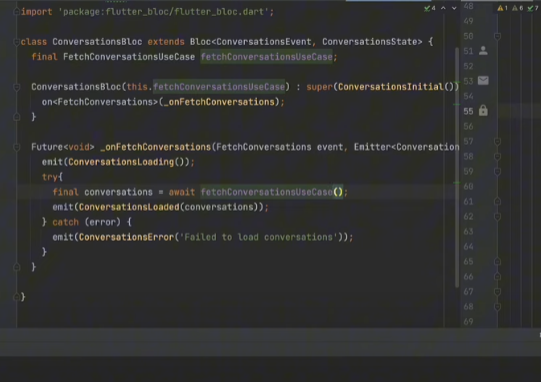
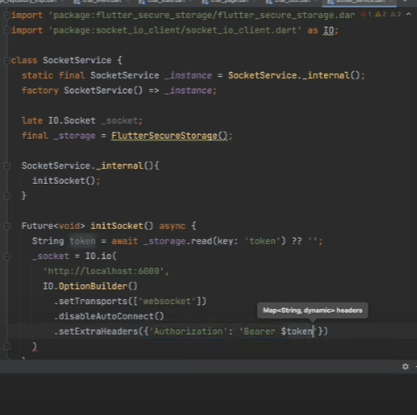
feat: integrate socket service and implement chat bloc

diff --git a/lib/chat_page.dart b/lib/chat_page.dart
@@ -1,63 +1,73 @@
 import 'package:flutter/material.dart';
+import 'package:flutter_bloc/flutter_bloc.dart';
+import 'package:flutter_secure_storage/flutter_secure_storage.dart';
 import 'package:messenger/core/theme.dart';
+import 'package:messenger/features/chat/presentation/bloc/chat_bloc.dart';
 
-class ChatPage extends StatelessWidget {
-  const ChatPage({super.key});
+class ChatPage extends StatefulWidget {
+  final String conversationId;
+  const ChatPage({super.key, required this.conversationId});
+
+  @override
+  State<ChatPage> createState() => _ChatPageState();
+}
+
+class _ChatPageState extends State<ChatPage> {
+  final TextEditingController _messageController = TextEditingController();
+  final _storage = FlutterSecureStorage();
+  String _userId = "";
+
+  @override
+  void initState() {
+    super.initState();
+    BlocProvider.of<ChatBloc>(context).add(LoadMessagesEvent(widget.conversationId));
+  }
 
   @override
   Widget build(BuildContext context) {
     return Scaffold(
-      appBar: AppBar(
-        title: Row(
-          children: [
-            CircleAvatar(
-              backgroundImage: NetworkImage('https://cdn-icons-png.flaticon.com/512/3177/3177440.png'),
-
-            ),
-            SizedBox(width: 10),
-            Text(
-              'Aditya',
-              style: Theme.of(context).textTheme.titleMedium,
-            ),
+        appBar: AppBar(
+          title: Row(
+            children: [
+              CircleAvatar(
+                backgroundImage: NetworkImage(
+                    'https://cdn-icons-png.flaticon.com/512/3177/3177440.png'),
+              ),
+              SizedBox(width: 10),
+              Text(
+                'Aditya',
+                style: Theme.of(context).textTheme.titleMedium,
+              ),
+            ],
+          ),
+          backgroundColor: Colors.transparent,
+          elevation: 0,
+          actions: [
+            IconButton(
+              icon: Icon(Icons.search),
+              onPressed: () {
+                // Handle search action
+              },
+              color: Colors.white,
+            )
           ],
         ),
-        backgroundColor: Colors.transparent,
-        elevation: 0,
-        actions: [
-          IconButton(
-            icon: Icon(Icons.search),
-            onPressed: () {
-              // Handle search action
-            },
-            color: Colors.white,
-          )
-        ],
-      ),
-
-      body: Column(
-        children: [
+        body: Column(children: [
           Expanded(
-            child:ListView(
-            padding: EdgeInsets.all(20),
-            children: [
-              _buildReceivedMessage( context,"hey my self aditya"),
-              _buildSentMessage( context," hi"),
-              _buildReceivedMessage( context,"how are you?"),
-              _buildSentMessage( context,"  i am fine"),
-              _buildReceivedMessage( context," ✌"),
-            ],
-           
+            child: ListView(
+              padding: EdgeInsets.all(20),
+              children: [
+                _buildReceivedMessage(context, "hey my self aditya"),
+                _buildSentMessage(context, " hi"),
+                _buildReceivedMessage(context, "how are you?"),
+                _buildSentMessage(context, "  i am fine"),
+                _buildReceivedMessage(context, " ✌"),
+              ],
             ),
-
           ),
-           _buildMessageInput(context),
-
-
-        ]
-      )
-    );    
+          _buildMessageInput(context),
+        ]));
   }
-
 
   Widget _buildReceivedMessage(BuildContext context, String message) {
     return Align(
@@ -77,7 +87,7 @@ class ChatPage extends StatelessWidget {
     );
   }
 
-    Widget _buildSentMessage(BuildContext context, String message) {
+  Widget _buildSentMessage(BuildContext context, String message) {
     return Align(
       alignment: Alignment.centerRight,
       child: Container(
@@ -103,7 +113,6 @@ class ChatPage extends StatelessWidget {
         color: DefaultColors.sentMessageInput,
         borderRadius: BorderRadius.circular(25),
       ),
-
       child: Row(
         children: [
           GestureDetector(
@@ -137,7 +146,6 @@ class ChatPage extends StatelessWidget {
             },
           ),
         ],
-
       ),
     );
   }

diff --git a/lib/features/chat/presentation/bloc/chat_bloc.dart b/lib/features/chat/presentation/bloc/chat_bloc.dart
@@ -1,0 +1,49 @@
+import 'package:flutter_bloc/flutter_bloc.dart';
+import 'package:flutter_secure_storage/flutter_secure_storage.dart';
+import 'package:messenger/core/socket_service.dart';
+import 'package:messenger/features/chat/domain/entities/message_entity.dart';
+import 'package:messenger/features/chat/domain/usecases/fetch_messages_use_case.dart';
+import 'package:messenger/features/chat/presentation/bloc/chat_event.dart';
+import 'package:messenger/features/chat/presentation/bloc/chat_state.dart';
+
+class ChatBloc extends Bloc<ChatEvent, ChatState> {
+  final FetchMessagesUseCase fetchMessagesUseCase;
+  final SocketService _socketService = SocketService();
+  final List<MessageEntity> _messages = [];
+  final _storage = FlutterSecureStorage();
+
+
+  ChatBloc({required this.fetchMessagesUseCase}) : super(ChatLoadingState()) {
+    on<LoadMessagesEvent>(_onLoadMessages);
+    on<SendMessageEvent>(_onSendMessages);
+    on<ReceiveMessageEvent>(_onReceiveMessages);
+  }
+
+  Future<void> _onLoadMessages(LoadMessagesEvent event, Emitter<ChatState> emit) async {
+    emit(ChatLoadingState());
+    try {
+      final messages = await fetchMessagesUseCase(event.conversationId);
+      _messages.clear();
+      _messages.addAll(messages);
+      emit(ChatLoadedState(List.from(_messages)));
+
+      _socketService.socket.emit('joinConversation',event.conversationId);
+      _socketService.socket.on('NewMessage', (data) {
+       
+      });
+
+
+
+    } catch (e) {
+      emit(ChatErrorState(e.toString()));
+    }
+  }
+
+  Future<void> _onSendMessages(SendMessageEvent event, Emitter<ChatState> emit) {
+    // Handle sending message logic here
+  }
+
+  Future<void> _onReceiveMessages(ReceiveMessageEvent event, Emitter<ChatState> emit) {
+    // Handle receiving message logic here
+  }
+}

diff --git a/lib/core/socket_service.dart b/lib/core/socket_service.dart
@@ -1,0 +1,38 @@
+import 'package:flutter_secure_storage/flutter_secure_storage.dart';
+import 'package:socket_io_client/socket_io_client.dart' as IO;
+
+class SocketService {
+  static final SocketService _instance = SocketService._internal();
+  factory SocketService() => _instance;
+
+  late IO.Socket _socket;
+  final _storage = FlutterSecureStorage();
+
+  SocketService._internal() {
+    initSocket();
+  }
+
+  Future<void> initSocket() async {
+    String token = await _storage.read(key: 'token') ?? '';
+    _socket = IO.io(
+      'http://localhost:6000',
+      IO.OptionBuilder()
+          .setTransports(['websocket'])
+          .disableAutoConnect()
+          .setExtraHeaders({'Authorization': 'Bearer $token'})
+          .build(),
+    );
+
+    _socket.connect();
+    _socket.onConnect((_) {
+      print('Socket connected: ${_socket.id}');
+    });
+
+    _socket.onDisconnect((_) {
+      print('Socket disconnected');
+    });
+  }
+
+
+  IO.Socket get socket => _socket;
+}

diff --git a/lib/features/chat/presentation/bloc/chat_event.dart b/lib/features/chat/presentation/bloc/chat_event.dart
@@ -1,0 +1,17 @@
+abstract class ChatEvent {}
+
+class LoadMessagesEvent extends ChatEvent {
+  final String conversationId;
+  LoadMessagesEvent(this.conversationId);
+}
+
+class SendMessageEvent extends ChatEvent {
+  final String conversationId;
+  final String content;
+  SendMessageEvent(this.conversationId, this.content);
+}
+
+class ReceiveMessageEvent extends ChatEvent {
+  final Map<String, dynamic> message;
+  ReceiveMessageEvent(this.message);
+}

diff --git a/lib/features/chat/presentation/bloc/chat_state.dart b/lib/features/chat/presentation/bloc/chat_state.dart
@@ -1,0 +1,15 @@
+import 'package:messenger/features/chat/domain/entities/message_entity.dart';
+
+abstract class ChatState {}
+
+class ChatLoadingState extends ChatState {}
+
+class ChatLoadedState extends ChatState {
+  final List<MessageEntity> messages;
+  ChatLoadedState(this.messages);
+}
+
+class ChatErrorState extends ChatState {
+  final String message;
+  ChatErrorState(this.message);
+}
